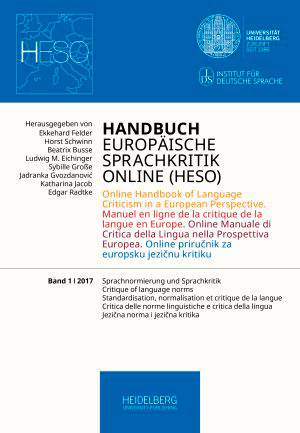
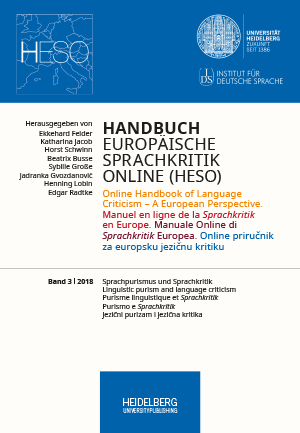
Titel-Änderung u. Neuerscheinung Heso Bd. 3: Cover, Startseite, Info-Seite Heso

diff --git a/views/journals/heso.html b/views/journals/heso.html
@@ -7,8 +7,8 @@
 	
             <div class="col-lg-3">
                 <article>
-                    <div class="post-image">
-		 	<img src="{{=URL(myconf.take('web.application'),'static','images/journals/cover_heso.jpg')}} ">
+                  <div class="post-image">
+		 	              <img src="{{=URL(myconf.take('web.application'),'static','images/journals/cover_heso.jpg')}} ">
                   </div>
 
                 </article>
@@ -22,13 +22,13 @@
                             <p>Herausgeberinnen und Herausgeber</p>
                             <ul>
                               <li>Ekkehard Felder</li>
+                              <li>Katharina Jacob</li>
                               <li>Horst Schwinn</li>
-							  <li>Beatrix Busse</li>
-							  <li>Ludwig M. Eichinger</li>
-							  <li>Sybille Große</li>
-							  <li>Jadranka Gvozdanović</li>
-							  <li>Katharina Jacob</li>
-							  <li>Edgar Radtke</li>
+                              <li>Beatrix Busse</li>
+                              <li>Sybille Große</li>
+                              <li>Jadranka Gvozdanović</li>
+                              <li>Henning Lobin</li>
+                              <li>Edgar Radtke</li>
                             </ul>
                             <p>Redaktion</p>
                               <ul>
@@ -52,13 +52,13 @@
                             <p>Editors</p>
                             <ul>
                               <li>Ekkehard Felder</li>
-                              <li>Schwinn</li>
-							  <li>Beatrix Busse</li>
-							  <li>Ludwig M. Eichinger</li>
-							  <li>Sybille Große</li>
-							  <li>Jadranka Gvozdanović</li>
-							  <li>Katharina Jacob</li>
-							  <li>Edgar Radtke</li>
+                              <li>Katharina Jacob</li>
+                              <li>Horst Schwinn</li>
+                              <li>Beatrix Busse</li>
+                              <li>Sybille Große</li>
+                              <li>Jadranka Gvozdanović</li>
+                              <li>Henning Lobin</li>
+                              <li>Edgar Radtke</li>
                             </ul>
                             <p>Editorial staff</p>
                               <ul>
@@ -162,11 +162,11 @@
 				 <p>Es handelt sich um eine Publikation der Projektgruppe Europäische Sprachkritik Online (ESO). Das ESO-Projekt ist in dem <a href="http://ezs-online.de/de/ezs-arbeitsgruppe-europaeische-sprachkritik-online-eso/" title="Europäisches Zentrum für Sprachwissenschaften (EZS)">Europäischen Zentrum für Sprachwissenschaften (EZS)</a> beheimatet, das eine Kooperation zwischen der Neuphilologischen Fakultät der Universität Heidelberg und dem Institut für Deutsche Sprache (IDS) in Mannheim darstellt. Es ist für Wissenschaftler/innen, Nachwuchswissenschaftler/innen und Studierende der verschiedenen Philologien im In- und Ausland geschrieben. Der Adressatenkreis ist aber auch auf andere Disziplinen mit sozial- und kulturwissenschaftlichem Hintergrund bezogen.</p>
 				 <p>Mehr Informationen zum Projekt "Europäische Sprachkritik Online" (ESO): <a href="http://europsprachkritik.com" title="Link zur Homepage">europsprachkritik.com</a></p>
              {{elif session.forced_language =='en': }}
-                <p>The <i>Online Handbook of Language Criticism in European Perspective</i> offers a comparative perspective of language criticism in European language cultures (especially of language criticism in German, English, French, Italian and Croatian). Central concepts of language criticism are covered descriptively in the handbook. The goal is to present a conceptual history of European language criticism.<br />
-				   On the one hand, the handbook gives specific insights into the respective language cultures. On the other hand, it compares and contrasts them. The multilingual handbook is released periodically in volumes.</p>
-				<p>The handbook thus contains comparative articles that focus on a single language or on multiple languages. All articles are published in German. The individual language articles looking at language criticism in English, French, Italian and Croatian can also be read in the language the article investigates (the articles are hence available in German/English, German/French, German/Italian or German/Croatian).<br />
-                   The handbook is a publication of the project group European language criticism online (Europäische Sprachkritik Online, ESO). The ESO-Project is based in the European Center for linguistics (Europäisches Zentrum für Sprachwissenschaften, EZS), which is a cooperation between the Faculty for Modern Languages of Heidelberg University and the German Institute (Institut für Deutsche Sprache, IDS) in Mannheim. It is designated for researchers, young academics and students of the various philologies in Germany and abroad. It is also addressed to persons from other disciplines, especially those with a background in social and cultural studies.</p>				
-				<p>More information about the project "Europäische Sprachkritik Online" (ESO): <a href="http://europsprachkritik.com" title="Link to the homepage">europsprachkritik.com</a></p>   
+                <p>The <i>Online Handbook of Language Criticism – A European Perspective</i> offers a comparative perspective of language criticism in European language cultures (especially of language criticism in German, English, French, Italian and Croatian). Central concepts of language criticism are covered descriptively in the handbook. The goal is to present a conceptual history of European language criticism.</p>
+				   <p>On the one hand, the handbook gives specific insights into the respective language cultures. On the other hand, it compares and contrasts them. The multilingual handbook is released periodically in volumes.</p>
+				<p>The handbook thus contains comparative articles that focus on a single language or on multiple languages. All articles are published in German. The individual language articles looking at language criticism in English, French, Italian and Croatian can also be read in the language the article investigates (the articles are hence available in German/English, German/French, German/Italian or German/Croatian).</p>
+                   <p>The handbook is a publication of the project group European language criticism online (Europäische Sprachkritik Online, ESO). The ESO-Project is based in the European Center for linguistics (Europäisches Zentrum für Sprachwissenschaften, EZS), which is a cooperation between the Faculty for Modern Languages of Heidelberg University and the German Institute (Institut für Deutsche Sprache, IDS) in Mannheim. It is designated for researchers, young academics and students of the various philologies in Germany and abroad. It is also addressed to persons from other disciplines, especially those with a background in social and cultural studies.</p>				
+				<p>More information about the project &ldquo;Europäische Sprachkritik Online&rdquo; (ESO): <a href="http://europsprachkritik.com" title="Link to the homepage">europsprachkritik.com</a></p>   
 
 
 {{pass}}     

diff --git a/views/home/index.html b/views/home/index.html
@@ -116,6 +116,17 @@ $('.flexslider').flexslider();
                <div class="box">
                 <div class="box-gray aligncenter">
                 <h4>{{=T('New Titles')}}</h4> 
+					       <a href="https://heiup.uni-heidelberg.de/journals/index.php/heso/issue/view/2382" title="{{=T('View Journal')}}">{{=IMG(_src=URL(myconf.take('web.application'),'static','images/journals/cover_heso.jpg'),_alt='',_style='width:145px', _class='bildrahmen')}}</a> 
+                  </div>
+                  <div class="box-bottom"><a href="https://heiup.uni-heidelberg.de/journals/index.php/heso/issue/view/2382" title="{{=T('View Journal')}}">{{=T('More Information')}}</a>
+                  </div>
+                </div>
+            </div>
+
+          <div class="col-lg-3">
+               <div class="box">
+                <div class="box-gray aligncenter">
+                <h4>{{=T('New Titles')}}</h4> 
 					       <a href="https://heiup.uni-heidelberg.de/journals/index.php/rupertocarola/issue/view/2383/" title="{{=T('View Journal')}}">{{=IMG(_src=URL(myconf.take('web.application'),'static','images/campusmedia/cover_13_2018-2.jpg'),_alt='',_style='width:145px', _class='bildrahmen')}}</a> 
                   </div>
                   <div class="box-bottom"><a href="https://heiup.uni-heidelberg.de/journals/index.php/rupertocarola/issue/view/2383" title="{{=T('View Journal')}}">{{=T('More Information')}}</a>
@@ -124,16 +135,6 @@ $('.flexslider').flexslider();
             </div>
         
 
-          <div class="col-lg-3">
-               <div class="box">
-                <div class="box-gray aligncenter">
-                <h4>{{=T('New Titles')}}</h4> 
-					       <a href="https://heiup.uni-heidelberg.de/journals/index.php/religions/issue/view/2380" title="{{=T('View Journal')}}">{{=IMG(_src=URL(myconf.take('web.application'),'static','images/journals/religions.png'),_alt='',_style='width:145px', _class='bildrahmen')}}</a> 
-                  </div>
-                  <div class="box-bottom"><a href="https://heiup.uni-heidelberg.de/journals/index.php/religions/issue/view/2380" title="{{=T('View Journal')}}">{{=T('More Information')}}</a>
-                  </div>
-                </div>
-            </div>
 		  
             <div id="boxAktuelles" class="col-lg-6">
               <div class="box">
@@ -182,7 +183,19 @@ $('.flexslider').flexslider();
               </div>
             </div>	
 
-		<div class="col-lg-3">              
+
+          <div class="col-lg-3">
+               <div class="box">
+                <div class="box-gray aligncenter">
+                <h4>{{=T('New Titles')}}</h4> 
+					       <a href="https://heiup.uni-heidelberg.de/journals/index.php/religions/issue/view/2380" title="{{=T('View Journal')}}">{{=IMG(_src=URL(myconf.take('web.application'),'static','images/journals/religions.png'),_alt='',_style='width:145px', _class='bildrahmen')}}</a> 
+                  </div>
+                  <div class="box-bottom"><a href="https://heiup.uni-heidelberg.de/journals/index.php/religions/issue/view/2380" title="{{=T('View Journal')}}">{{=T('More Information')}}</a>
+                  </div>
+                </div>
+            </div>
+            
+		      <div class="col-lg-3">              
                 <div class="box">
                   <div class="box-gray aligncenter">
                 <h4>{{=T('New Titles')}}</h4>
@@ -191,7 +204,7 @@ $('.flexslider').flexslider();
                   <div class="box-bottom">{{=A(T('More Information'),_href=URL('catalog','book/424'))}}
                   </div>
                 </div>
-        </div>
+          </div>
 
          <div class="col-lg-3">
                 <div class="box">
@@ -205,16 +218,7 @@ $('.flexslider').flexslider();
           </div>
 
 
-         <div class="col-lg-3">
-                <div class="box">
-                  <div class="box-gray aligncenter">
-                <h4>{{=T('New Titles')}}</h4>
-                {{=A(IMG(_src=URL(myconf.take('web.application'),'static','files/presses/6/monographs/417/simple/cover.jpg'),_alt='',_style='width:145px', _class='bildrahmen'),_href=URL('catalog','book/417'))}} 
-      					</div>
-                  <div class="box-bottom">{{=A(T('More Information'),_href=URL('catalog','book/417'))}}
-                  </div>
-                </div>
-          </div>
+        
 
                              
                 <!--<div>-->
